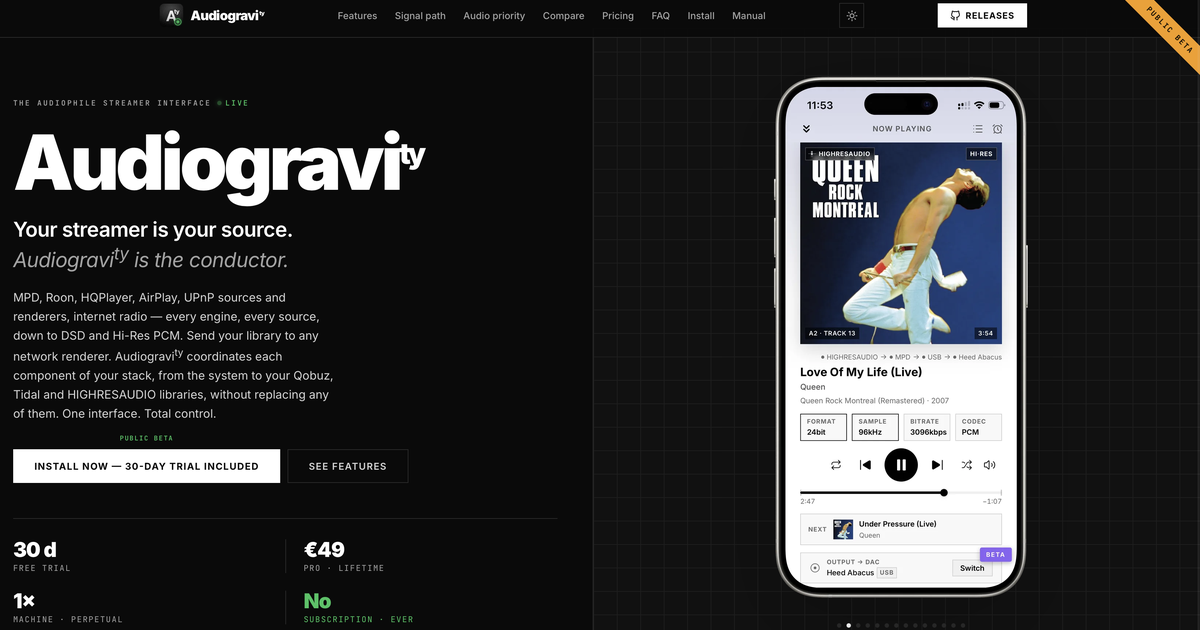
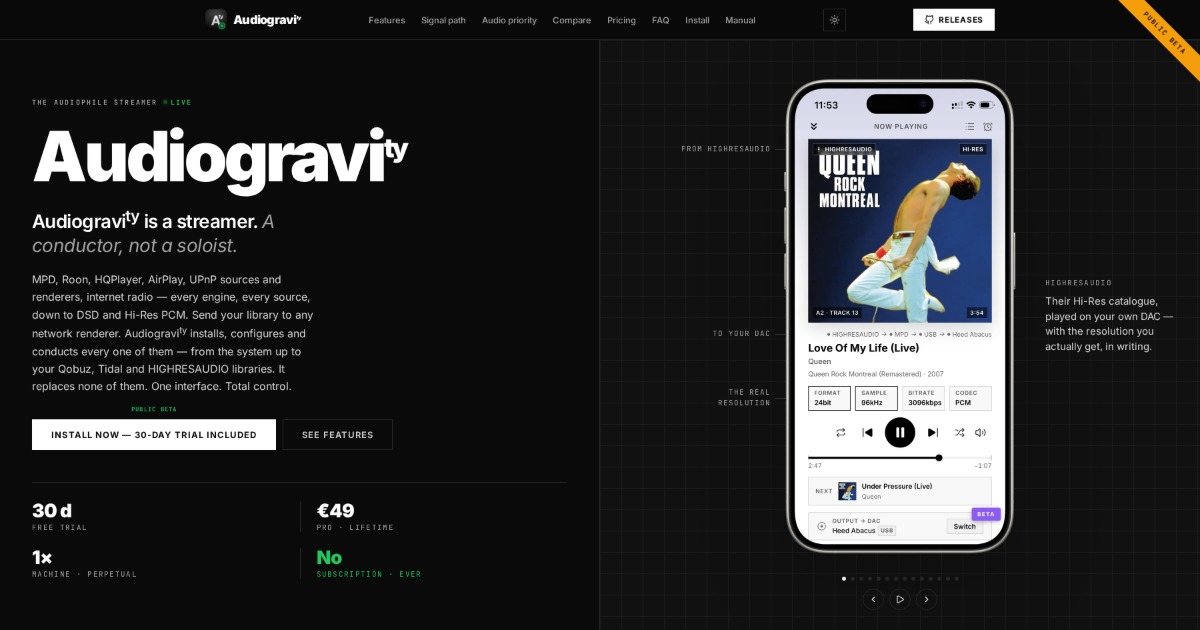
fix: stop the landing telling the reader they already own a streamer

diff --git a/index.html b/index.html
@@ -371,7 +371,7 @@
         <div class="w">
             <div class="section-label">Features</div>
             <h2 class="section-title">From the machine<br>to your Qobuz, Tidal &amp; HIGHRESAUDIO library.</h2>
-            <p class="section-sub">Twenty-one modules orchestrating every layer of your streamer — system tuning,
+            <p class="section-sub">Twenty-one modules orchestrating every layer of the stack — system tuning,
                 service control, signal-path visualisation, unified transport across MPD, Roon, HQPlayer, AirPlay,
                 UPnP and internet radio. Starter ships with the essentials; Pro unlocks the deep audio-engineering
                 surface.</p>
@@ -381,7 +381,7 @@
                     <span class="fb-tier pro">PRO</span>
                     <div class="fb-icon"><svg viewBox="0 0 24 24"> <path d="M9 9.003a1 1 0 0 1 1.517-.859l4.997 2.997a1 1 0 0 1 0 1.718l-4.997 2.997A1 1 0 0 1 9 14.996z" /> <circle cx="12" cy="12" r="10" /></svg></div>
                     <h3>Unified transport across every engine</h3>
-                    <p>One interface, one set of controls, every engine your streamer runs — MPD, Roon, HQPlayer,
+                    <p>One interface, one set of controls, every engine the box runs — MPD, Roon, HQPlayer,
                         AirPlay and UPnP, simultaneously. A <b>stream origin badge</b> always tells you where the
                         audio is coming from, and the live Hi-Fi readout — format (PCM / DSD), sample rate, bit
                         depth, instantaneous bitrate — refreshes on every track change. The queue reads every
@@ -823,7 +823,11 @@
     <section class="section alt" id="layers">
         <div class="w">
             <div class="section-label">Where it sits</div>
-            <h2 class="section-title">Five layers.<br><em>Audiogravi<sup>ty</sup> covers three, manages two.</em></h2>
+            <!-- "covers three, manages two" only added up by lumping the two layers it is with the
+                 one it tunes. The table below labels them 2 × Audiogravity, 2 × manages, 1 × tunes,
+                 so a reader who counted found 2/2/1 and stalled. "Is two, drives three" closes, and
+                 stays true quoted away from the table. -->
+            <h2 class="section-title">Five layers.<br><em>Audiogravi<sup>ty</sup> is two, drives three.</em></h2>
             <p class="section-sub">A streaming system is a stack. Audiogravi<sup>ty</sup> does not compete with audio
                 engines like MPD, Roon Bridge or HQPlayer — it orchestrates them, installs and configures them, and
                 tunes the OS underneath.</p>
@@ -1497,7 +1501,7 @@
     <section class="section" id="install">
         <div class="w">
             <div class="section-label">Installation</div>
-            <h2 class="section-title">On your streamer<br>in one command.</h2>
+            <h2 class="section-title">One command,<br>and it is a streamer.</h2>
             <div class="setup-inner">
                 <div>
                     <p class="setup-lede">No compilation, no dependency hell, no manual configuration. The installer

diff --git a/CHANGELOG.md b/CHANGELOG.md
@@ -20,6 +20,9 @@ and this landing) are documented here. Format based on
 - **[site] The landing said Audiogravi<sup>ty</sup> conducts your streamer. It is one.** *"Your streamer is your source. Audiogravi<sup>ty</sup> is the conductor"* — the hero, the footer, the kicker's *"streamer interface"* and the three `description` / `og:` / `twitter:` metadata all described a layer sitting on top of a streamer the reader already owned, which is the opposite of what installing it does. It now opens on **"Audiogravi<sup>ty</sup> is a streamer. A conductor, not a soloist."** — the fact first, then the image that does the explaining, since a conductor plays no instrument. The paragraph under it stops saying it *coordinates each component of your stack*, which presumed a stack: it installs, configures and conducts them.
 - **[site] *How it compares* claimed not to compete, above a table of competitors.** Its lede read *"sits at a different layer than the rest — does not compete with Roon, MPD or HQPlayer"*, directly above a table that lists Roon, Volumio, Moode, HQPlayer and JPLAY iOS and ends on a row of prices. It also put Roon and MPD in one bag, when Roon is a column here and MPD an engine Audiogravi<sup>ty</sup> installs. The distinction the sentence has to carry is Roon versus Roon Bridge, and HQPlayer versus its NAA — one of each pair is a rival, the other is what gets installed to be compatible with it. The column header drops *Embedded*.
 - **[site] The pipeline drawing credited the NAA with HQPlayer's work.** One box read *HQPlayer NAA · DSD256 · upsample*, when the NAA receives audio already processed. There are now three nodes where there was one — Audiogravi<sup>ty</sup> resolving the stream URL, HQPlayer applying filters and conversion, the NAA handing the result to the DAC. The lit path starts from Qobuz, Tidal and HIGHRESAUDIO, spelled in full, instead of from Roon Core, which is one source among five. Internet radio, the NAS and both UPnP roles join the drawing — the control app driving the box on one side, the network renderer being driven on the other — and a dashed frame marks what actually runs on the box, so the radio, the streaming clients and the two UPnP roles stop reading as outside boxes. The amplifier makes way: eight nodes did not fit across 1000 px, and the bit-perfect link moves to NAA → DAC, where the property is decided.
+- **[site] Three more places still said the reader owned a streamer.** The hero was corrected; the same presumption survived in *Features* — *"every layer of your streamer"*, *"every engine your streamer runs"* — and in the title of *Installation*, *"On your streamer in one command"*. They now read *every layer of the stack*, *every engine the box runs*, and **"One command, and it is a streamer."**, which makes the installation title demonstrate the hero instead of contradicting its premise. One occurrence is deliberately untouched: *"expose your streamer as a UPnP renderer"* does mean the Audiogravi<sup>ty</sup> machine.
+- **[site] *Five layers* did not add up.** The title claimed Audiogravi<sup>ty</sup> *"covers three, manages two"*, over a table labelled 2 × *Audiogravity*, 2 × *manages*, 1 × *tunes* — the count only worked by lumping the two layers it is with the one it tunes, and a reader who counted the labels found 2/2/1 and stalled. It now reads **"is two, drives three"**: two layers it is, three it drives, five in all. True quoted away from its table, which the old wording was not.
+- **[site] The link preview showed an opening line the site no longer uses.** `og:image` was a still of the page taken by hand months ago: it still advertised *"Your streamer is your source. Audiogravi<sup>ty</sup> is the conductor"* while the `og:description` beside it already carried the new one, so a pasted link contradicted itself. Regenerated — and, more to the point, regenerable: `audiogravity.ops/scripts/gen-og-image.js` drives the headless Chromium that audiogravity.ui already carries. Four settings decide whether the result is usable, and each was established by looking at the output: captured at 1800×945 and downscaled, since a direct 1200×630 shot crops the phone and the price row; the carousel frozen on slide 0, which otherwise advances every 3.5 s mid-capture; dark theme forced, a fresh profile having no stored preference; and the announce bar hidden, because it carries a version number and the card is cached for weeks.
 - **[site] Where it is developed, and by whom.** *Who I am* now ends on "I develop and maintain it myself, from France" — the badge in the footer stays *Made in the EU*, France being in it.
 - **[site] The carousel opens on a different record.** The opening slide is the only one every visitor is guaranteed to see, so which sleeve is on screen is an editorial choice, not whatever happened to be playing when the capture was taken. A reader pointed out that the one there read as the opposite of what a listener is after, which is a fair thing to say about a shop window. It now opens on the HIGHRESAUDIO screen, and the Qobuz screen that opened before moves one slide down. Captions and annotations travel with their capture and never with the slot — `--y` is measured against the capture itself — so the move changes nothing but the `data-slide` number and which caption carries `active`; checked in the markup, fourteen slides, contiguous indices, a single active caption with its three annotations, and the opening capture still loaded eagerly as the page's largest paint. Both it and the slide after it are light-theme captures, so the carousel now opens on two light screens in a row.
 
